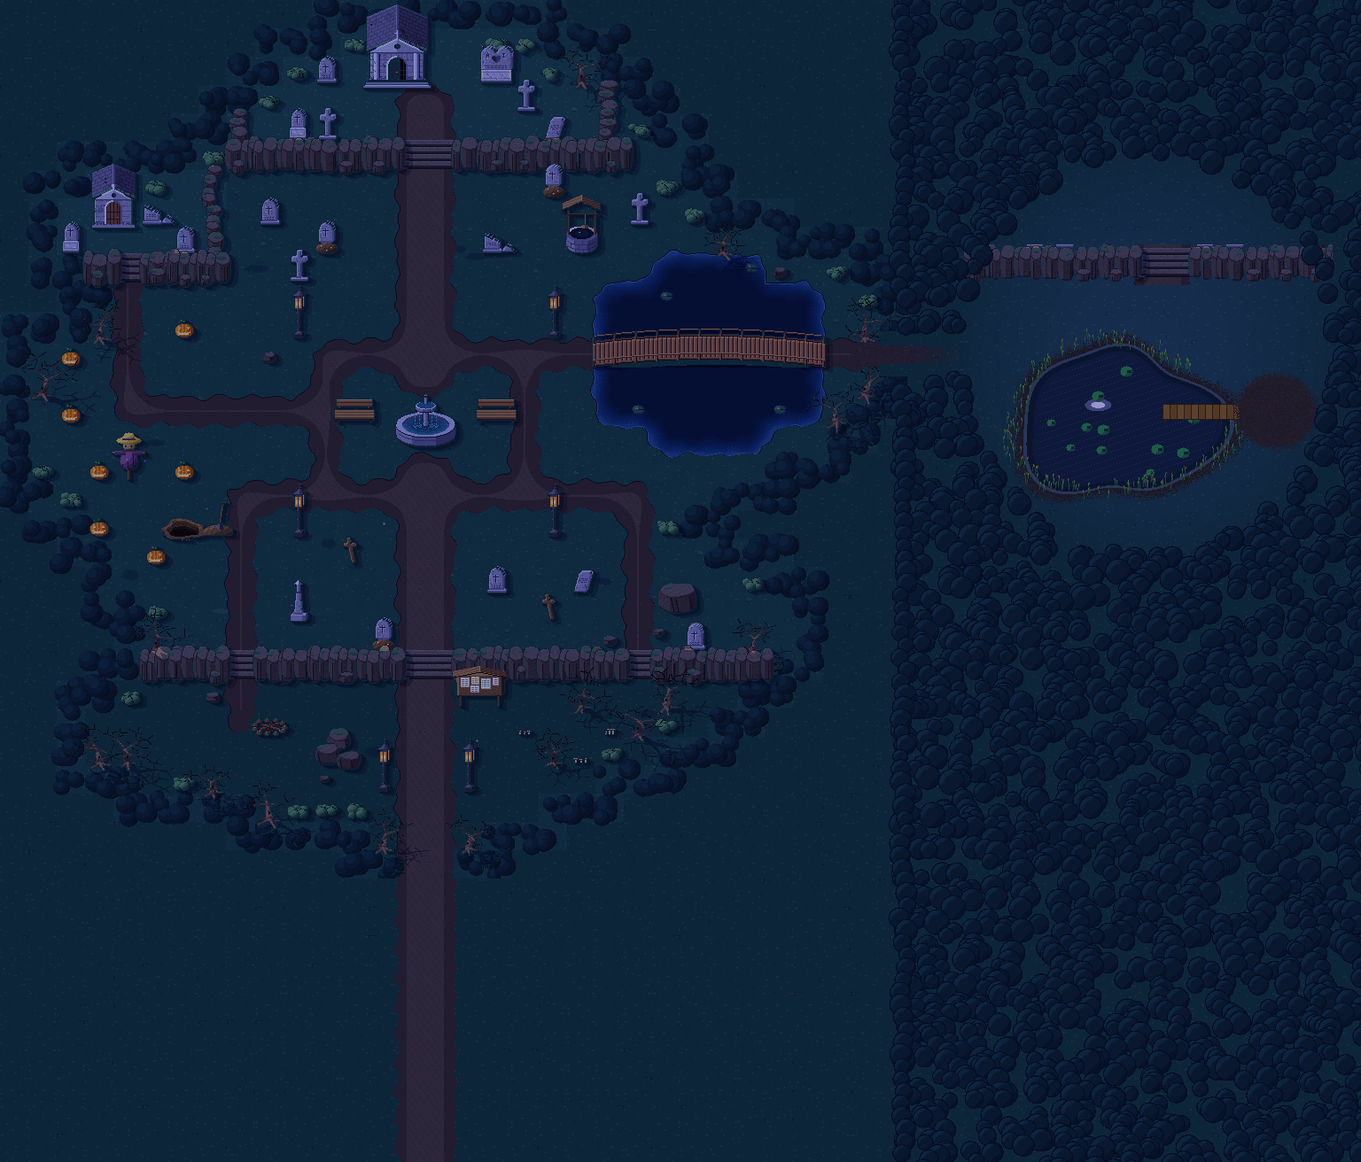
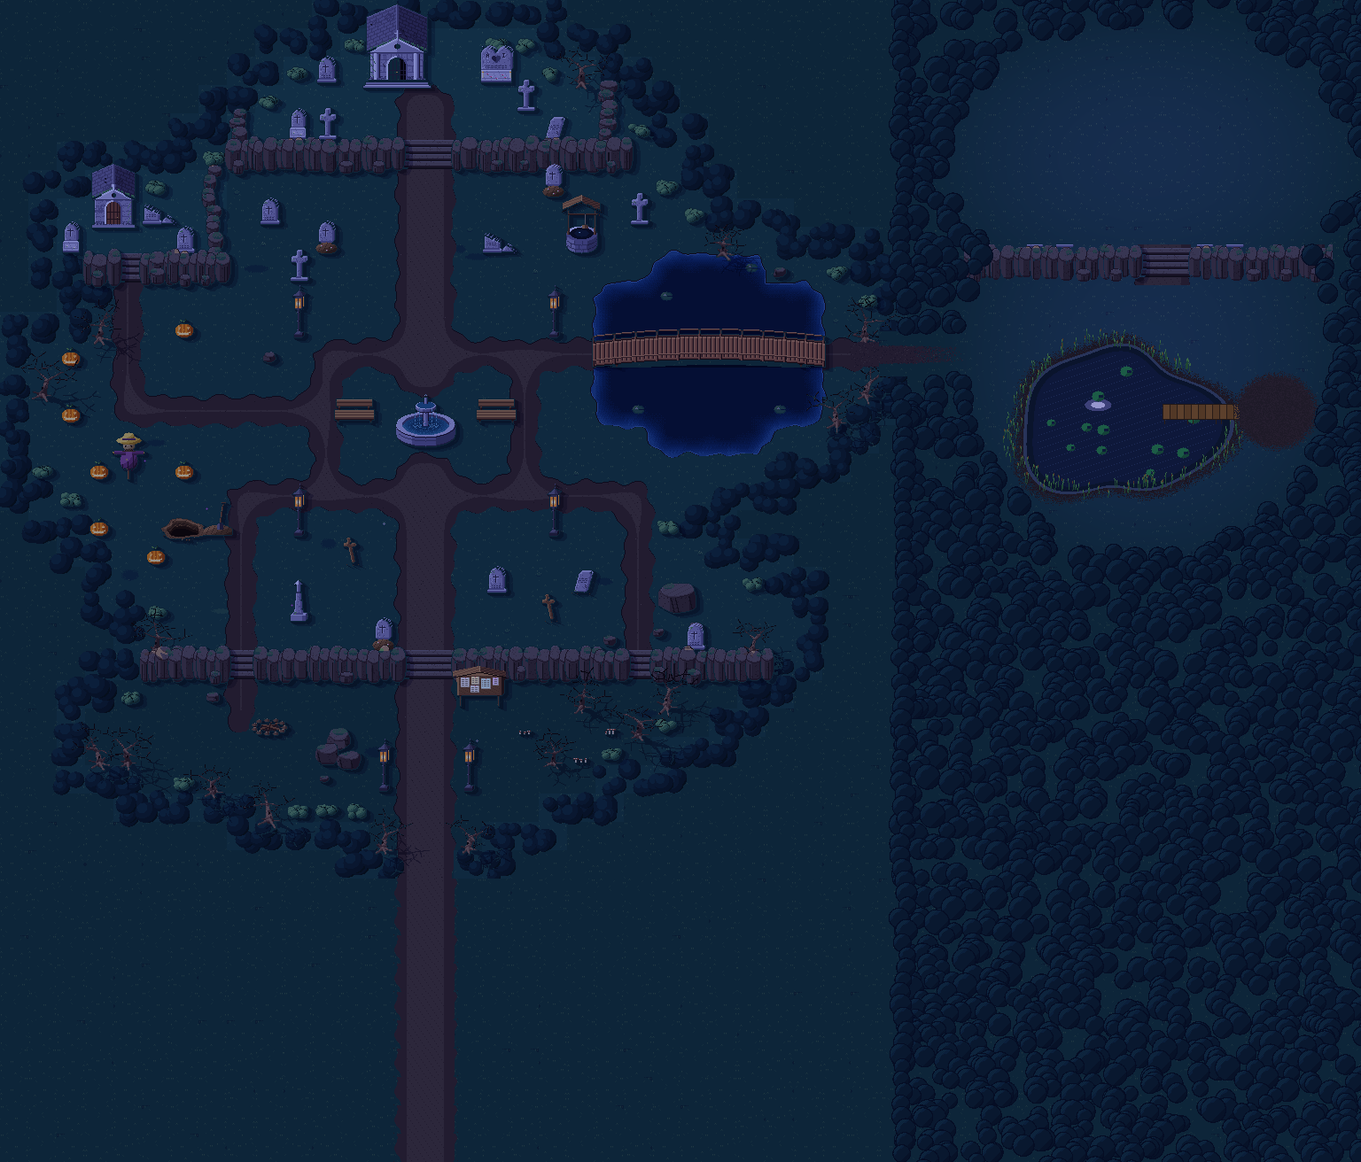
Terraza más grande con tumbas para los que no vienen
Claude-Session: https://claude.ai/code/session_01F2MufxhJiicWErqgVh9gN8

Changed region(s): [[0.6875, 0.0312, 1.0, 0.2188]]

diff --git a/game.src.html b/game.src.html
@@ -1418,7 +1418,7 @@ const DEMO = [
   {id:"e4",nick:"Marina",avatar:"marina",attend:"quiza",party:"si",x:16,y:16},
   {id:"e5",nick:"Fran",avatar:"fran",attend:"si",party:"si",bizum:"hecho",hatStyle:1,faceStyle:0,handStyle:0,petStyle:4,x:12,y:13},
   {id:"e6",nick:"María",avatar:"maria",attend:"si",party:"si",bizum:"no",hatStyle:2,x:17,y:13},
-  {id:"e7",nick:"Edu",x:16,y:8},{id:"e8",nick:"Nava",x:20,y:7},{id:"e9",nick:"Dani",x:7,y:12},{id:"e10",nick:"Bea",x:21,y:15},
+  {id:"e7",nick:"Edu",x:16,y:8},{id:"e8",nick:"Nava",x:20,y:7},{id:"e9",nick:"Dani",x:7,y:12},{id:"e10",nick:"Bea",x:21,y:15},{id:"e11",nick:"Rober",avatar:"rober",attend:"no",x:0,y:0},{id:"e12",nick:"Óscar",avatar:"oscar",attend:"no",x:0,y:0},
 ];
 /* En la versión real el nombre llega con el enlace personal de cada invitado */
 let INVITE_NAME = "Adri";
@@ -1433,11 +1433,12 @@ const SC = window.HW_SCENE, GEN = window.HW_GEN, LOOKS = window.HW_LOOKS || {};
    Zona nueva al este, cruzando el puente por un hueco del seto. Ahí esperan los fantasmas (los que aún no han dicho que sí).
    El suelo ya viene pintado en suelo.png (columnas 32-47); aquí se amplían el mapa y la rejilla de paso. */
 const CLARO = {
-  map:["FFFFFFFFFFFFFFFF", "FFFFFFFFFFFFFFFF", "FFFFFFFFFFFFFFFF", "FFFFFFFFFFFFFFFF", "FFFFFFFFFFFFFFFF", "FFFFFFFFFFFFFFFF", "FFFFFF..Z.ZFFFFF", "FFFFF.Z....ZFFFF", "FFFF.........FFF", "FF######EE#####F", "FFF...........FF", "FFF...........FF", "===...QQ.......F", "FFF..QQQQQ....FF", "FFF.QQQQQDDD..FF", "FFF.QQQQQQQ...FF", "FFFFQQQQQQ...FFF", "FFFFF.......FFFF", "FFFFFF.....FFFFF", "FFFFFFFFFFFFFFFF", "FFFFFFFFFFFFFFFF", "FFFFFFFFFFFFFFFF", "FFFFFFFFFFFFFFFF", "FFFFFFFFFFFFFFFF", "FFFFFFFFFFFFFFFF", "FFFFFFFFFFFFFFFF", "FFFFFFFFFFFFFFFF", "FFFFFFFFFFFFFFFF", "FFFFFFFFFFFFFFFF", "FFFFFFFFFFFFFFFF", "FFFFFFFFFFFFFFFF"],
-  walk:["0000000000000000", "0000000000000000", "0000000000000000", "0000000000000000", "0000000000000000", "0000000000000000", "0000001101000000", "0000010111100000", "0000111111111000", "0000000011000000", "0001111111111100", "0001111111111100", "1111110011111110", "0001100000111100", "0001000001111100", "0001000000011100", "0000000000111000", "0000011111110000", "0000001111100000", "0000000000000000", "0000000000000000", "0000000000000000", "0000000000000000", "0000000000000000", "0000000000000000", "0000000000000000", "0000000000000000", "0000000000000000", "0000000000000000", "0000000000000000", "0000000000000000"],
-  stones:[[38, 7], [40, 6], [42, 6], [43, 7]],
-  mush:[[39.89, 10.73], [42.85, 11.83], [37.13, 7.05], [40.43, 18.43], [39.39, 6.73], [37.48, 8.44], [41.54, 7.2], [41.32, 18.03], [35.23, 13.06], [41.69, 18.92], [42.88, 18.81], [42.49, 13.76]],
-  spots:[[41, 8], [41, 11], [45, 12], [41, 6], [42, 7], [43, 12], [44, 8], [39, 8], [37, 11], [44, 11], [37, 8], [41, 17], [36, 12], [40, 8], [39, 10], [44, 16], [42, 17], [45, 11], [36, 11], [41, 12], [38, 17], [43, 13], [36, 13], [40, 12], [39, 17], [40, 17], [42, 18], [35, 15], [43, 17], [44, 10], [44, 12], [38, 8], [41, 18], [36, 8], [42, 12], [35, 13], [41, 10], [39, 11], [43, 10], [43, 15]],
+  map:["FFFFFFFFFFFFFFFF", "FFFFFF.....FFFFF", "FFFF.........FFF", "FFF.Z.......Z.FF", "FF.............F", "FF.............F", "FF.............F", "FFFZ.........ZFF", "FFFF.........FFF", "FF######EE#####F", "FFF...........FF", "FFF...........FF", "===...QQ.......F", "FFF..QQQQQ....FF", "FFF.QQQQQDDD..FF", "FFF.QQQQQQQ...FF", "FFFFQQQQQQ...FFF", "FFFFF.......FFFF", "FFFFFF.....FFFFF", "FFFFFFFFFFFFFFFF", "FFFFFFFFFFFFFFFF", "FFFFFFFFFFFFFFFF", "FFFFFFFFFFFFFFFF", "FFFFFFFFFFFFFFFF", "FFFFFFFFFFFFFFFF", "FFFFFFFFFFFFFFFF", "FFFFFFFFFFFFFFFF", "FFFFFFFFFFFFFFFF", "FFFFFFFFFFFFFFFF", "FFFFFFFFFFFFFFFF", "FFFFFFFFFFFFFFFF"],
+  walk:["0000000000000000", "0000001111100000", "0000111111111000", "0001011111110100", "0011111111111110", "0011111111111110", "0011111111111110", "0000111111111000", "0000111111111000", "0000000011000000", "0001111111111100", "0001111111111100", "1111110011111110", "0001100000111100", "0001000001111100", "0001000000011100", "0000000000111000", "0000011111110000", "0000001111100000", "0000000000000000", "0000000000000000", "0000000000000000", "0000000000000000", "0000000000000000", "0000000000000000", "0000000000000000", "0000000000000000", "0000000000000000", "0000000000000000", "0000000000000000", "0000000000000000"],
+  stones:[[36, 3], [44, 3], [35, 7], [45, 7]],
+  tombs:[[37, 4], [39, 4], [42, 4], [44, 5], [37, 6], [39, 6], [42, 6], [38, 2], [41, 2], [43, 2]],
+  mush:[[39.89, 10.73], [42.85, 11.83], [40.43, 18.43], [41.32, 18.03], [35.23, 13.06], [41.69, 18.92], [42.88, 18.81], [42.49, 13.76], [35.6, 5.2], [45.3, 4.9], [38.3, 8.1], [43.4, 8.2], [40.7, 1.4], [36.4, 1.9]],
+  spots:[[35, 10], [36, 10], [37, 10], [38, 10], [39, 10], [40, 10], [41, 10], [42, 10], [43, 10], [44, 10], [45, 10], [35, 11], [36, 11], [37, 11], [38, 11], [39, 11], [40, 11], [41, 11], [42, 11], [43, 11], [44, 11], [45, 11], [36, 12], [37, 12], [40, 12], [41, 12], [42, 12], [43, 12], [44, 12], [45, 12], [46, 12], [35, 13], [36, 13], [42, 13], [43, 13], [35, 14], [35, 15], [43, 15], [42, 16], [43, 16], [44, 16], [37, 17], [38, 17], [39, 17], [40, 17], [41, 17], [42, 17], [43, 17], [38, 18], [39, 18], [40, 18], [41, 18], [42, 18]],
   frogs:[{"x": 41.72, "y": 15.98, "pad": 1}, {"x": 38.34, "y": 15.09, "pad": 1}, {"x": 40.84, "y": 15.86, "pad": 1}, {"x": 42.11, "y": 14.76, "pad": 1}, {"x": 42.5, "y": 16.6, "pad": 0, "tx": 42, "ty": 16}, {"x": 37.5, "y": 17.6, "pad": 0, "tx": 37, "ty": 17}],
   sparkles:[[1241, 475], [1268, 503], [1245, 538], [1223, 485], [1299, 427], [1195, 528], [1250, 470], [1311, 458], [1239, 492], [1227, 449], [1255, 441], [1292, 472], [1263, 461], [1221, 460], [1235, 479], [1283, 469], [1290, 493], [1248, 485], [1256, 464], [1261, 460], [1271, 447], [1249, 526], [1297, 508], [1262, 476], [1270, 498], [1262, 461], [1281, 418], [1308, 505], [1287, 509], [1251, 481], [1173, 459], [1301, 508], [1258, 480], [1233, 497], [1318, 462], [1248, 473], [1255, 529], [1201, 494], [1339, 471], [1259, 481], [1280, 460], [1257, 479], [1265, 467], [1246, 474], [1273, 478], [1318, 470], [1308, 456], [1346, 450], [1245, 525], [1185, 455], [1269, 505], [1285, 443], [1175, 493], [1235, 492], [1269, 490], [1249, 498], [1257, 491], [1225, 453], [1275, 501], [1256, 470]],
   cx:40.5, cy:12.5, rx:6, ry:6.6, lx:39.4, ly:14.9,
@@ -1470,9 +1471,9 @@ const tileAt = (x,y) => OBJ[x+","+y] || (MAP[y]&&MAP[y][x]);
 const GATE = {x0:14*32-12, x1:16*32+12, base:29*32+30};
 const GATE_T = new Set(["14,29","15,29","14,30","15,30"]);
 let gateOpenUntil = 0;
-const solidAt = (x,y) => GATE_T.has(x+","+y) || x<0||y<0||x>=W||y>=H||(SC.walk[y][x]!=="1"&&MAP[y][x]!=="m")||!!OBJ[x+","+y];
+const solidAt = (x,y) => GATE_T.has(x+","+y) || x<0||y<0||x>=W||y>=H||(SC.walk[y][x]!=="1"&&MAP[y][x]!=="m")||!!OBJ[x+","+y]||tombBlock(x,y);
 const IMG = {};
-["suelo","objetos","fuego"].forEach(k=>{ const i=new Image(); i.onload=()=>{ IMG[k]=i; }; i.src="assets/"+k+".png?v=20261020d"; });
+["suelo","objetos","fuego"].forEach(k=>{ const i=new Image(); i.onload=()=>{ IMG[k]=i; }; i.src="assets/"+k+".png?v=20261020e"; });
 /* Solo el SÍ da personaje: los de QUIZÁ siguen de fantasma */
 const confirmed = r => !!r && r.attend==="si";
 const look = r => confirmed(r) ? r : {...r, char:"fantasma", color:"#cfc8e6", party:"", costume:"", ghost:true};
@@ -2013,7 +2014,11 @@ function render(now){
     L.push({b:Y+camY+3, d:()=>{ g.fillStyle="rgba(6,6,14,.42)"; g.beginPath(); g.ellipse(X, Y-1, ghost?8:9, ghost?2:3, 0, 0, 7); g.fill();
       g.globalAlpha = ghost ? .8 : c.attend==="quiza" ? .82 : 1; g.drawImage(spr, X-16, Y-spr.height+1-bob); g.globalAlpha=1; }});
   }
-  for(const c of chars){ if(c.critter || !allIn(c) || (c.isMe && player.sit && PET_KIND[petOf(c)]!=="orbita")) continue; pushPet(L, g, c, camX, camY, now); }
+  if(camX+VW > 33*TS) for(const t of tombList()){
+    const X=t.x*TS+16-camX, Y=t.y*TS+30-camY; if(X<-40||X>VW+40||Y<-40||Y>VH+40) continue;
+    L.push({b:t.y*TS+30, d:()=>g.drawImage(TOMB_SPR, X-11, Y-27)});
+    chars.push({nick:t.n.nick, _x:X, _tag:Y-32, tomb:true}); }
+  for(const c of chars){ if(c.critter || c.tomb || !allIn(c) || (c.isMe && player.sit && PET_KIND[petOf(c)]!=="orbita")) continue; pushPet(L, g, c, camX, camY, now); }
   L.push({b:GATE.base, d:()=>drawGateW(g, camX, camY, now)});
   L.push({b:GRAMO.y*TS+30, d:()=>drawGramo(g, camX, camY, now)});
   L.push({b:MAQUINA.y*TS+30, d:()=>drawMaquina(g, camX, camY, now)});
@@ -2422,6 +2427,7 @@ const TREE_LINES = ["Sus ramas crujen\ncon el viento.", "Un búho te mira\ndesde
 const MUSH_LINES = ["Mejor no comerlas.\nHazme caso.", "Brillan un poquito.\nEso nunca es buena\nseñal.", "Huelen a fiesta\nde las de antes.", "Una seta te guiña\nun ojo. ¿O no?"];
 const TALUD_LINES = ["Rocas y raíces.\nMejor por la escalera.", "Escalar está muy bien.\nEsta noche, no.", "Entre las piedras\nasoma una mano.\nTe saluda."];
 const LAKE_LINES = ["El agua está quieta.\nDemasiado quieta.", "Algo ha hecho 'blub'.\nNo quieras saber qué.", "Tu reflejo va\ndisfrazado. Tú no.\nTodavía.", "Un nenúfar se mueve\nsolo. Normal."];
+const TOMB_NO = ["No puede venir.\nLe echaremos de menos.", "Aquí descansa alguien\nque se pierde la fiesta.\nQue en paz descanse.", "Dijo que no.\nSu espíritu sí vendrá.", "R.I.P.\nRechazó Invitación\nPersonal."];
 const FUENTE_LINES = ["El agua susurra nombres\nque no conoces.", "Alguien ha tirado\nuna moneda. Y una\ndentadura.", "El agua sabe a hierro.\nNo la bebas.", "Si escuchas bien,\nla fuente tararea."];
 const FAROL_LINES = ["La llama tiembla\ncuando pasas.", "Una polilla da vueltas.\nLleva así desde 1950.", "Da una luz preciosa.\nPara un susto."];
 const HOG_LINES = ["Huele a castañas\ny a humo. Qué gusto.", "El fuego crepita\ncomo si se riera.", "Alguien ha quemado\nun disfraz aquí.\nEra feo."];
@@ -2452,6 +2458,8 @@ function interact(){
   const [dx,dy]=D[player.dir], tx=player.x+dx, ty=player.y+dy;
   if(nearWisp()) return catchWisp();
   const cr = critters.find(c=>c.x===tx&&c.y===ty); if(cr) return talkCritter(cr);
+  const tb = tombList().find(t=>t.x===tx&&t.y===ty);
+  if(tb){ const c=tb.n; say("TUMBA DE "+(c.nick||"?").toUpperCase(), (c.isMe?"Aquí yaces tú.\nDijiste que no venías...\n\nSi cambias de idea,\nconfirma en MI PERSONAJE.":pick(TOMB_NO))+(canWrite(c)?"\n\n(Pulsa A para escribirle)":""), null); if(canWrite(c)) pendingB={msg:c}; return; }
   const n = npcs.find(n=>n.x===tx&&n.y===ty&&n.attend!=="no");
   if(n){ n.dir = {up:"down",down:"up",left:"right",right:"left"}[player.dir]; return showGuest(n); }
   const t = tileAt(tx,ty);
@@ -2806,6 +2814,24 @@ function showGuest(c){
   if(canWrite(c)) pendingB={msg:c};
 }
 const canWrite = c => !c.isMe && !!c.id;
+/* Los que han dicho que NO vienen tienen su tumba fija en la terraza del pantano, entre los menhires.
+   Los que aún no han contestado siguen de fantasmas. Si alguien cambia a SÍ, la tumba desaparece. */
+function tombList(){
+  const a=npcs.filter(n=>n.attend==="no");
+  if(me && me.attend==="no") a.push({...me, isMe:true});
+  a.sort((p,q)=>(p.nick||"").localeCompare(q.nick||""));
+  return a.slice(0,CLARO.tombs.length).map((n,i)=>({n, x:CLARO.tombs[i][0], y:CLARO.tombs[i][1]}));
+}
+function tombBlock(x,y){ if(x<36||y>8) return false; return tombList().some(t=>t.x===x&&t.y===y); }
+const TOMB_SPR=(()=>{ const c=document.createElement("canvas"); c.width=22; c.height=28; const g=c.getContext("2d");
+  const R=(x,y,w,h,col)=>{ g.fillStyle=col; g.fillRect(x,y,w,h); };
+  R(1,23,20,5,"#120e18"); R(2,23,18,4,"#3a2a26"); R(3,23,6,1,"#4e3a30"); R(13,25,5,1,"#2a1e1c");
+  R(5,4,12,20,"#120e18"); R(4,6,14,18,"#120e18"); R(6,3,10,2,"#120e18");
+  R(6,5,10,19,"#5e5a80"); R(5,7,12,17,"#5e5a80"); R(7,4,8,2,"#5e5a80");
+  R(6,6,2,17,"#7f7ba4"); R(7,4,3,2,"#7f7ba4"); R(15,7,2,17,"#433f60");
+  R(10,8,2,9,"#2e2a46"); R(8,10,6,2,"#2e2a46"); R(10,8,1,9,"#3b3858");
+  R(7,19,8,1,"#433f60"); R(3,21,2,2,"#6a3a8c"); R(4,20,1,1,"#b07ad8"); R(17,21,2,2,"#2e5a3a"); R(18,20,1,1,"#5ea06a");
+  return c; })();
 function cast(){
   const a = npcs.filter(n=>n.attend!=="no");
   if(mode==="play") a.push({...(me||{nick:"TÚ"}), ...player, isMe:true});

diff --git a/index.html b/index.html
@@ -1437,7 +1437,7 @@ const DEMO = [
   {id:"e4",nick:"Marina",avatar:"marina",attend:"quiza",party:"si",x:16,y:16},
   {id:"e5",nick:"Fran",avatar:"fran",attend:"si",party:"si",bizum:"hecho",hatStyle:1,faceStyle:0,handStyle:0,petStyle:4,x:12,y:13},
   {id:"e6",nick:"María",avatar:"maria",attend:"si",party:"si",bizum:"no",hatStyle:2,x:17,y:13},
-  {id:"e7",nick:"Edu",x:16,y:8},{id:"e8",nick:"Nava",x:20,y:7},{id:"e9",nick:"Dani",x:7,y:12},{id:"e10",nick:"Bea",x:21,y:15},
+  {id:"e7",nick:"Edu",x:16,y:8},{id:"e8",nick:"Nava",x:20,y:7},{id:"e9",nick:"Dani",x:7,y:12},{id:"e10",nick:"Bea",x:21,y:15},{id:"e11",nick:"Rober",avatar:"rober",attend:"no",x:0,y:0},{id:"e12",nick:"Óscar",avatar:"oscar",attend:"no",x:0,y:0},
 ];
 /* En la versión real el nombre llega con el enlace personal de cada invitado */
 let INVITE_NAME = "Adri";
@@ -1452,11 +1452,12 @@ const SC = window.HW_SCENE, GEN = window.HW_GEN, LOOKS = window.HW_LOOKS || {};
    Zona nueva al este, cruzando el puente por un hueco del seto. Ahí esperan los fantasmas (los que aún no han dicho que sí).
    El suelo ya viene pintado en suelo.png (columnas 32-47); aquí se amplían el mapa y la rejilla de paso. */
 const CLARO = {
-  map:["FFFFFFFFFFFFFFFF", "FFFFFFFFFFFFFFFF", "FFFFFFFFFFFFFFFF", "FFFFFFFFFFFFFFFF", "FFFFFFFFFFFFFFFF", "FFFFFFFFFFFFFFFF", "FFFFFF..Z.ZFFFFF", "FFFFF.Z....ZFFFF", "FFFF.........FFF", "FF######EE#####F", "FFF...........FF", "FFF...........FF", "===...QQ.......F", "FFF..QQQQQ....FF", "FFF.QQQQQDDD..FF", "FFF.QQQQQQQ...FF", "FFFFQQQQQQ...FFF", "FFFFF.......FFFF", "FFFFFF.....FFFFF", "FFFFFFFFFFFFFFFF", "FFFFFFFFFFFFFFFF", "FFFFFFFFFFFFFFFF", "FFFFFFFFFFFFFFFF", "FFFFFFFFFFFFFFFF", "FFFFFFFFFFFFFFFF", "FFFFFFFFFFFFFFFF", "FFFFFFFFFFFFFFFF", "FFFFFFFFFFFFFFFF", "FFFFFFFFFFFFFFFF", "FFFFFFFFFFFFFFFF", "FFFFFFFFFFFFFFFF"],
-  walk:["0000000000000000", "0000000000000000", "0000000000000000", "0000000000000000", "0000000000000000", "0000000000000000", "0000001101000000", "0000010111100000", "0000111111111000", "0000000011000000", "0001111111111100", "0001111111111100", "1111110011111110", "0001100000111100", "0001000001111100", "0001000000011100", "0000000000111000", "0000011111110000", "0000001111100000", "0000000000000000", "0000000000000000", "0000000000000000", "0000000000000000", "0000000000000000", "0000000000000000", "0000000000000000", "0000000000000000", "0000000000000000", "0000000000000000", "0000000000000000", "0000000000000000"],
-  stones:[[38, 7], [40, 6], [42, 6], [43, 7]],
-  mush:[[39.89, 10.73], [42.85, 11.83], [37.13, 7.05], [40.43, 18.43], [39.39, 6.73], [37.48, 8.44], [41.54, 7.2], [41.32, 18.03], [35.23, 13.06], [41.69, 18.92], [42.88, 18.81], [42.49, 13.76]],
-  spots:[[41, 8], [41, 11], [45, 12], [41, 6], [42, 7], [43, 12], [44, 8], [39, 8], [37, 11], [44, 11], [37, 8], [41, 17], [36, 12], [40, 8], [39, 10], [44, 16], [42, 17], [45, 11], [36, 11], [41, 12], [38, 17], [43, 13], [36, 13], [40, 12], [39, 17], [40, 17], [42, 18], [35, 15], [43, 17], [44, 10], [44, 12], [38, 8], [41, 18], [36, 8], [42, 12], [35, 13], [41, 10], [39, 11], [43, 10], [43, 15]],
+  map:["FFFFFFFFFFFFFFFF", "FFFFFF.....FFFFF", "FFFF.........FFF", "FFF.Z.......Z.FF", "FF.............F", "FF.............F", "FF.............F", "FFFZ.........ZFF", "FFFF.........FFF", "FF######EE#####F", "FFF...........FF", "FFF...........FF", "===...QQ.......F", "FFF..QQQQQ....FF", "FFF.QQQQQDDD..FF", "FFF.QQQQQQQ...FF", "FFFFQQQQQQ...FFF", "FFFFF.......FFFF", "FFFFFF.....FFFFF", "FFFFFFFFFFFFFFFF", "FFFFFFFFFFFFFFFF", "FFFFFFFFFFFFFFFF", "FFFFFFFFFFFFFFFF", "FFFFFFFFFFFFFFFF", "FFFFFFFFFFFFFFFF", "FFFFFFFFFFFFFFFF", "FFFFFFFFFFFFFFFF", "FFFFFFFFFFFFFFFF", "FFFFFFFFFFFFFFFF", "FFFFFFFFFFFFFFFF", "FFFFFFFFFFFFFFFF"],
+  walk:["0000000000000000", "0000001111100000", "0000111111111000", "0001011111110100", "0011111111111110", "0011111111111110", "0011111111111110", "0000111111111000", "0000111111111000", "0000000011000000", "0001111111111100", "0001111111111100", "1111110011111110", "0001100000111100", "0001000001111100", "0001000000011100", "0000000000111000", "0000011111110000", "0000001111100000", "0000000000000000", "0000000000000000", "0000000000000000", "0000000000000000", "0000000000000000", "0000000000000000", "0000000000000000", "0000000000000000", "0000000000000000", "0000000000000000", "0000000000000000", "0000000000000000"],
+  stones:[[36, 3], [44, 3], [35, 7], [45, 7]],
+  tombs:[[37, 4], [39, 4], [42, 4], [44, 5], [37, 6], [39, 6], [42, 6], [38, 2], [41, 2], [43, 2]],
+  mush:[[39.89, 10.73], [42.85, 11.83], [40.43, 18.43], [41.32, 18.03], [35.23, 13.06], [41.69, 18.92], [42.88, 18.81], [42.49, 13.76], [35.6, 5.2], [45.3, 4.9], [38.3, 8.1], [43.4, 8.2], [40.7, 1.4], [36.4, 1.9]],
+  spots:[[35, 10], [36, 10], [37, 10], [38, 10], [39, 10], [40, 10], [41, 10], [42, 10], [43, 10], [44, 10], [45, 10], [35, 11], [36, 11], [37, 11], [38, 11], [39, 11], [40, 11], [41, 11], [42, 11], [43, 11], [44, 11], [45, 11], [36, 12], [37, 12], [40, 12], [41, 12], [42, 12], [43, 12], [44, 12], [45, 12], [46, 12], [35, 13], [36, 13], [42, 13], [43, 13], [35, 14], [35, 15], [43, 15], [42, 16], [43, 16], [44, 16], [37, 17], [38, 17], [39, 17], [40, 17], [41, 17], [42, 17], [43, 17], [38, 18], [39, 18], [40, 18], [41, 18], [42, 18]],
   frogs:[{"x": 41.72, "y": 15.98, "pad": 1}, {"x": 38.34, "y": 15.09, "pad": 1}, {"x": 40.84, "y": 15.86, "pad": 1}, {"x": 42.11, "y": 14.76, "pad": 1}, {"x": 42.5, "y": 16.6, "pad": 0, "tx": 42, "ty": 16}, {"x": 37.5, "y": 17.6, "pad": 0, "tx": 37, "ty": 17}],
   sparkles:[[1241, 475], [1268, 503], [1245, 538], [1223, 485], [1299, 427], [1195, 528], [1250, 470], [1311, 458], [1239, 492], [1227, 449], [1255, 441], [1292, 472], [1263, 461], [1221, 460], [1235, 479], [1283, 469], [1290, 493], [1248, 485], [1256, 464], [1261, 460], [1271, 447], [1249, 526], [1297, 508], [1262, 476], [1270, 498], [1262, 461], [1281, 418], [1308, 505], [1287, 509], [1251, 481], [1173, 459], [1301, 508], [1258, 480], [1233, 497], [1318, 462], [1248, 473], [1255, 529], [1201, 494], [1339, 471], [1259, 481], [1280, 460], [1257, 479], [1265, 467], [1246, 474], [1273, 478], [1318, 470], [1308, 456], [1346, 450], [1245, 525], [1185, 455], [1269, 505], [1285, 443], [1175, 493], [1235, 492], [1269, 490], [1249, 498], [1257, 491], [1225, 453], [1275, 501], [1256, 470]],
   cx:40.5, cy:12.5, rx:6, ry:6.6, lx:39.4, ly:14.9,
@@ -1489,9 +1490,9 @@ const tileAt = (x,y) => OBJ[x+","+y] || (MAP[y]&&MAP[y][x]);
 const GATE = {x0:14*32-12, x1:16*32+12, base:29*32+30};
 const GATE_T = new Set(["14,29","15,29","14,30","15,30"]);
 let gateOpenUntil = 0;
-const solidAt = (x,y) => GATE_T.has(x+","+y) || x<0||y<0||x>=W||y>=H||(SC.walk[y][x]!=="1"&&MAP[y][x]!=="m")||!!OBJ[x+","+y];
+const solidAt = (x,y) => GATE_T.has(x+","+y) || x<0||y<0||x>=W||y>=H||(SC.walk[y][x]!=="1"&&MAP[y][x]!=="m")||!!OBJ[x+","+y]||tombBlock(x,y);
 const IMG = {};
-["suelo","objetos","fuego"].forEach(k=>{ const i=new Image(); i.onload=()=>{ IMG[k]=i; }; i.src="assets/"+k+".png?v=20261020d"; });
+["suelo","objetos","fuego"].forEach(k=>{ const i=new Image(); i.onload=()=>{ IMG[k]=i; }; i.src="assets/"+k+".png?v=20261020e"; });
 /* Solo el SÍ da personaje: los de QUIZÁ siguen de fantasma */
 const confirmed = r => !!r && r.attend==="si";
 const look = r => confirmed(r) ? r : {...r, char:"fantasma", color:"#cfc8e6", party:"", costume:"", ghost:true};
@@ -2032,7 +2033,11 @@ function render(now){
     L.push({b:Y+camY+3, d:()=>{ g.fillStyle="rgba(6,6,14,.42)"; g.beginPath(); g.ellipse(X, Y-1, ghost?8:9, ghost?2:3, 0, 0, 7); g.fill();
       g.globalAlpha = ghost ? .8 : c.attend==="quiza" ? .82 : 1; g.drawImage(spr, X-16, Y-spr.height+1-bob); g.globalAlpha=1; }});
   }
-  for(const c of chars){ if(c.critter || !allIn(c) || (c.isMe && player.sit && PET_KIND[petOf(c)]!=="orbita")) continue; pushPet(L, g, c, camX, camY, now); }
+  if(camX+VW > 33*TS) for(const t of tombList()){
+    const X=t.x*TS+16-camX, Y=t.y*TS+30-camY; if(X<-40||X>VW+40||Y<-40||Y>VH+40) continue;
+    L.push({b:t.y*TS+30, d:()=>g.drawImage(TOMB_SPR, X-11, Y-27)});
+    chars.push({nick:t.n.nick, _x:X, _tag:Y-32, tomb:true}); }
+  for(const c of chars){ if(c.critter || c.tomb || !allIn(c) || (c.isMe && player.sit && PET_KIND[petOf(c)]!=="orbita")) continue; pushPet(L, g, c, camX, camY, now); }
   L.push({b:GATE.base, d:()=>drawGateW(g, camX, camY, now)});
   L.push({b:GRAMO.y*TS+30, d:()=>drawGramo(g, camX, camY, now)});
   L.push({b:MAQUINA.y*TS+30, d:()=>drawMaquina(g, camX, camY, now)});
@@ -2441,6 +2446,7 @@ const TREE_LINES = ["Sus ramas crujen\ncon el viento.", "Un búho te mira\ndesde
 const MUSH_LINES = ["Mejor no comerlas.\nHazme caso.", "Brillan un poquito.\nEso nunca es buena\nseñal.", "Huelen a fiesta\nde las de antes.", "Una seta te guiña\nun ojo. ¿O no?"];
 const TALUD_LINES = ["Rocas y raíces.\nMejor por la escalera.", "Escalar está muy bien.\nEsta noche, no.", "Entre las piedras\nasoma una mano.\nTe saluda."];
 const LAKE_LINES = ["El agua está quieta.\nDemasiado quieta.", "Algo ha hecho 'blub'.\nNo quieras saber qué.", "Tu reflejo va\ndisfrazado. Tú no.\nTodavía.", "Un nenúfar se mueve\nsolo. Normal."];
+const TOMB_NO = ["No puede venir.\nLe echaremos de menos.", "Aquí descansa alguien\nque se pierde la fiesta.\nQue en paz descanse.", "Dijo que no.\nSu espíritu sí vendrá.", "R.I.P.\nRechazó Invitación\nPersonal."];
 const FUENTE_LINES = ["El agua susurra nombres\nque no conoces.", "Alguien ha tirado\nuna moneda. Y una\ndentadura.", "El agua sabe a hierro.\nNo la bebas.", "Si escuchas bien,\nla fuente tararea."];
 const FAROL_LINES = ["La llama tiembla\ncuando pasas.", "Una polilla da vueltas.\nLleva así desde 1950.", "Da una luz preciosa.\nPara un susto."];
 const HOG_LINES = ["Huele a castañas\ny a humo. Qué gusto.", "El fuego crepita\ncomo si se riera.", "Alguien ha quemado\nun disfraz aquí.\nEra feo."];
@@ -2471,6 +2477,8 @@ function interact(){
   const [dx,dy]=D[player.dir], tx=player.x+dx, ty=player.y+dy;
   if(nearWisp()) return catchWisp();
   const cr = critters.find(c=>c.x===tx&&c.y===ty); if(cr) return talkCritter(cr);
+  const tb = tombList().find(t=>t.x===tx&&t.y===ty);
+  if(tb){ const c=tb.n; say("TUMBA DE "+(c.nick||"?").toUpperCase(), (c.isMe?"Aquí yaces tú.\nDijiste que no venías...\n\nSi cambias de idea,\nconfirma en MI PERSONAJE.":pick(TOMB_NO))+(canWrite(c)?"\n\n(Pulsa A para escribirle)":""), null); if(canWrite(c)) pendingB={msg:c}; return; }
   const n = npcs.find(n=>n.x===tx&&n.y===ty&&n.attend!=="no");
   if(n){ n.dir = {up:"down",down:"up",left:"right",right:"left"}[player.dir]; return showGuest(n); }
   const t = tileAt(tx,ty);
@@ -2825,6 +2833,24 @@ function showGuest(c){
   if(canWrite(c)) pendingB={msg:c};
 }
 const canWrite = c => !c.isMe && !!c.id;
+/* Los que han dicho que NO vienen tienen su tumba fija en la terraza del pantano, entre los menhires.
+   Los que aún no han contestado siguen de fantasmas. Si alguien cambia a SÍ, la tumba desaparece. */
+function tombList(){
+  const a=npcs.filter(n=>n.attend==="no");
+  if(me && me.attend==="no") a.push({...me, isMe:true});
+  a.sort((p,q)=>(p.nick||"").localeCompare(q.nick||""));
+  return a.slice(0,CLARO.tombs.length).map((n,i)=>({n, x:CLARO.tombs[i][0], y:CLARO.tombs[i][1]}));
+}
+function tombBlock(x,y){ if(x<36||y>8) return false; return tombList().some(t=>t.x===x&&t.y===y); }
+const TOMB_SPR=(()=>{ const c=document.createElement("canvas"); c.width=22; c.height=28; const g=c.getContext("2d");
+  const R=(x,y,w,h,col)=>{ g.fillStyle=col; g.fillRect(x,y,w,h); };
+  R(1,23,20,5,"#120e18"); R(2,23,18,4,"#3a2a26"); R(3,23,6,1,"#4e3a30"); R(13,25,5,1,"#2a1e1c");
+  R(5,4,12,20,"#120e18"); R(4,6,14,18,"#120e18"); R(6,3,10,2,"#120e18");
+  R(6,5,10,19,"#5e5a80"); R(5,7,12,17,"#5e5a80"); R(7,4,8,2,"#5e5a80");
+  R(6,6,2,17,"#7f7ba4"); R(7,4,3,2,"#7f7ba4"); R(15,7,2,17,"#433f60");
+  R(10,8,2,9,"#2e2a46"); R(8,10,6,2,"#2e2a46"); R(10,8,1,9,"#3b3858");
+  R(7,19,8,1,"#433f60"); R(3,21,2,2,"#6a3a8c"); R(4,20,1,1,"#b07ad8"); R(17,21,2,2,"#2e5a3a"); R(18,20,1,1,"#5ea06a");
+  return c; })();
 function cast(){
   const a = npcs.filter(n=>n.attend!=="no");
   if(mode==="play") a.push({...(me||{nick:"TÚ"}), ...player, isMe:true});
